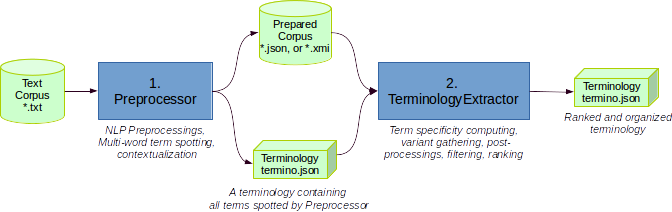
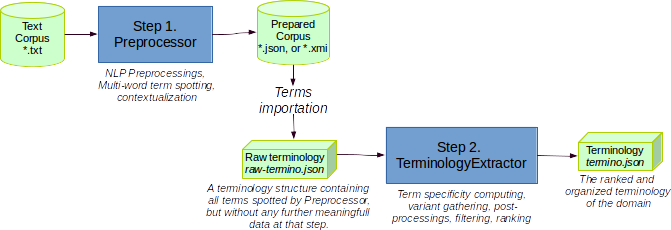
Preprocessor documented

diff --git a/_plugins/termsuite_module.rb b/_plugins/termsuite_module.rb
@@ -1,0 +1,65 @@
+module Jekyll
+  RESOURCE_PREFIX = "https://github.com/termsuite/termsuite-core/blob/master/src/main/resources/fr/univnantes/termsuite/resources/"
+  class Resource
+    attr_reader :name, :url
+    def initialize(name, url)
+      @name, @url = name, url
+    end
+  end
+
+  class TermsuiteModule < Liquid::Tag
+
+    def initialize(tag_name, markup, tokens)
+      super
+      @attributes = {}
+      @markup = markup
+      @markup.scan(::Liquid::TagAttributes) do |key, value|
+        # Strip quotes from around attribute values
+        @attributes[key] = value.gsub(/^['"]|['"]$/, '')
+      end
+      @title = @attributes["title"] || raise("Missing attribute title to tag #{tag_name}")
+      @source = @attributes["source"] || raise("Missing attribute source to tag #{tag_name}")
+    end
+
+    def resources
+      @resources ||= begin
+        @attributes.to_a.select do |res_name, res_path|
+          res_name != "title" && res_name != "source"
+        end.map do |res_name, res_path|
+          Resource.new(res_name, RESOURCE_PREFIX + res_path)
+        end
+      end
+    end
+
+    def render(context)
+str = %{
+  <table class="table table-bordered">
+    <tbody>
+        <tr>
+          <td>Source code:</td>
+          <td><a title="#{@title} source code" href="#{@source}">#{@title}</a></td>
+        </tr>
+        <tr>
+          <td>Resource#{resources.length > 1 ? "s" : ""}:</td>
+          <td>}
+
+if(resources.empty?)
+  str += "(No TermSuite resource required for this module)"
+else
+  str += resources.map do |resource|
+   %{<a title="#{resource.name}" href="#{resource.url}">#{resource.name}</a>}
+ end.join(", ")
+end
+
+str+=%{</td>
+        </tr>
+    </tbody>
+  </table>
+}
+
+str
+    end
+  end
+end
+
+Liquid::Template.register_tag('termsuite_module', Jekyll::TermsuiteModule)

diff --git a/_plugins/termsuite_example.rb b/_plugins/termsuite_example.rb
@@ -65,7 +65,3 @@ See [how to interprete terminology TSV output file](/documentation/terminology-t
 end
 
 Liquid::Template.register_tag('termsuite_example', Jekyll::TermsuiteExample)
-
-
-# %{
-# }

diff --git a/_i18n/en/documentation/termsuite-pipelines.md b/_i18n/en/documentation/termsuite-pipelines.md
@@ -1,10 +1,106 @@
 
+TermSuite is a tool for working on domain-specific term. It implements two major features: **Terminology extraction** and **Bilingual alignment**. This page gives an overview of their architectures.
 
+* TOC
+{:toc}
+
+### Terminology Extraction (Steps 1 and 2)
+{:id=terminology-extraction}
+
+Terminology extraction is the process of producing an exhaustive list of domain-specific
+terms from a corpus of textual documents dealing with this domain.
 
 
 ![TermSuite general data flow](/img/flow-preprocessor-extractor.png)
 
-[Terminology Extraction](/documentation/terminology-extraction/)
+As show by the figure above, terminology extraction is a two-step process:
+
+ 1. **Step 1. Preprocessor**: every textual document of the corpus is analyzed
+by an UIMA-based NLP (*Natural Language Processing*) pipeline that spots all candidate terms
+in the document.
+ 1. **Step 2. TerminologyExtractor**: spotted terms are analyzed, gathered, filtered,
+and ranked by specificity to the domain.
+
+The preprocessed documents produced by *Preprocessor* comes out as a corpus of [UIMA](http://uima.apache.org/) annotations, called a *prepared corpus*,  in [XMI](http://www.omg.org/spec/XMI/) or JSON. The *TerminologyExtractor* is a pipeline that operates on a terminology structure. The process of transforming a prepared corpus into a terminology is named [*term importation*](#term-importation) and consists in gathering all occurrences of the same term key into a single terminology structure.
+
+#### Step 1: Preprocessor
+{:id=preprocessor}
+
+Preprocessing is the process of transforming a text, i.e. a *String* data, into a list of UIMA annotations, including term occurrences. It is a mandatory step before terminology extraction, but you can reuse TermSuite natural language preprocessings in any other application context (not only on terminology extraction).
+
+![TermSuite preprocessor pipeline](/img/pipeline-preprocessor.png)
+
+The framework used by TermSuite for its NLP pipeline is [UIMA](https://uima.apache.org/). See [TermSuite UIMA Type System](/documentation/data-model/#type-system) to get an idea on how the tokens (UIMA annotations) are modelled within TermSuite.
+
+
+##### Word tokenizer
+
+Transforms a text, i.e. a *String*, into a list of *tokens*, i.e. words and punctuations. TermSuite ships its own UIMA tokenizer.
+
+{% termsuite_module title: "UIMA tokenizer", source: "https://github.com/JuleStar/uima-tokenizer", SegmentBank: "en/english-segment-bank.xml" %}
+
+##### POS Tagger and Lemmatizer
+ of a term,
+The *POS Tagger* attributes a syntactic label to each token. The *Lemmatizer* sets the *lemma* of each word.
+
+POS tagging and lemmatizing are often performed together in the same module. There are two POS taggers/lemmatizers supported by TermSuite:
+
+ 1. [TreeTagger](http://www.cis.uni-muenchen.de/~schmid/tools/TreeTagger/), (default)
+ 2. [Mate](http://www.ims.uni-stuttgart.de/forschung/ressourcen/werkzeuge/matetools.html).
+
+These bricks need to be installed apart from TermSuite. See [how to install POS tagger/lemmatizer](/documentation/postagger/) in TermSuite.
+
+For TreeTagger:
+
+{% termsuite_module title: "TreeTagger UIMA wrapper", source: "https://github.com/JuleStar/uima-tree-tagger-wrapper", TreeTaggerConfig: "en/tagging/tree-tagger/english-treetagger.xml" %}
+
+For Mate:
+
+{% termsuite_module title: "Mate UIMA wrapper", source: "https://github.com/termsuite/termsuite-core/blob/master/src/main/java/fr/univnantes/termsuite/uima/engines/preproc/MateLemmatizerTagger.java" %}
+
+##### Tag normalization
+
+*Normalizing* is the process of translating each POS tag into MULTEXT universel tag set.
+
+When TreeTagger is used:
+
+{% termsuite_module title: "TreeTagger UIMA normalizer", source: "https://github.com/JuleStar/uima-mapper", CategoryMapping: "en/tagging/tree-tagger/english-tt-category-mapping.xml", SubCategoryMapping: "en/tagging/tree-tagger/english-tt-subcategory-mapping.xml", TenseMapping: "en/tagging/tree-tagger/english-tt-tense-mapping.xml", MoodMapping: "en/tagging/tree-tagger/english-tt-mood-mapping.xml", GenderMapping: "en/tagging/tree-tagger/english-tt-gender-mapping.xml", NumberMapping: "en/tagging/tree-tagger/english-tt-number-mapping.xml", CaseMapping: "en/tagging/tree-tagger/english-tt-case-mapping.xml" %}
+
+When Mate is used:
+
+{% termsuite_module title: "Mate UIMA normalizer", source: "https://github.com/JuleStar/uima-mapper", CategoryMapping: "en/tagging/tree-tagger/english-mate-category-mapping.xml", SubCategoryMapping: "en/tagging/tree-tagger/english-mate-subcategory-mapping.xml", TenseMapping: "en/tagging/tree-tagger/english-mate-tense-mapping.xml", MoodMapping: "en/tagging/tree-tagger/english-mate-mood-mapping.xml", GenderMapping: "en/tagging/tree-tagger/english-mate-gender-mapping.xml", NumberMapping: "en/tagging/tree-tagger/english-mate-number-mapping.xml", CaseMapping: "en/tagging/tree-tagger/english-mate-case-mapping.xml" %}
+
+
+##### Stemmer
+
+*Stemming* is the process of extracting the stem form of each word. TermSuite ships its own UIMA stemmer, implementing [Snowball](http://snowball.tartarus.org/).
+
+{% termsuite_module title: "UIMA Snowball Stemmer", source: "https://github.com/JuleStar/uima-stemmer" %}
+
+
+##### Term Spotter
+{:id=term-spotter}
+
+*Term spotting* is the process of parsing a sequence of words and detecting wich subsequences are term occurrences. TermSuite performs pattern-based multi-word term spotting with the help of [UIMA Tokens Regex](https://github.com/JuleStar/uima-tokens-regex) engine and a list of regex rules on UIMA annotations. *UIMA Tokens Regex* is a generic regex rule system for sequential UIMA annotations. It has been designed and implemented especially with the goels of TermSuite in mind.  
+
+{% termsuite_module title: "Term Spotter", source: "https://github.com/JuleStar/uima-tokens-regex", MultiWordRegexRules: "en/english-multi-word-rule-system.regex" %}
+
+Multi-word term detection in TermSuite is rule-based, based on syntactic term patterns. Each supported language has its own exhaustive list of allowed term patterns. Read [UIMA Tokens Regex documentation](https://github.com/JuleStar/uima-tokens-regex) and [TermSuite demo paper at ACL](https://aclweb.org/anthology/P/P16/P16-4003.pdf) for more information about this process.
+
+#### Importation of spotted terms into terminology
+{:id=term-importation}
+
+
+
+
+#### Step 2: Terminology extraction
+{:id=terminology-extraction-step-2}
+
+![TermSuite terminology extractor pipeline](/img/pipeline-extractor.png)
+
+
+### Bilingual Alignment (Step 3)
+{:id=alignment}
 
 ![TermSuite aligner data flow](/img/flow-aligner.png)
 

diff --git a/_i18n/en/documentation/data-model.md b/_i18n/en/documentation/data-model.md
@@ -1,18 +1,33 @@
 * TOC
 {:toc}
 
-# TermSuite UIMA Type System
+### TermSuite UIMA Type System
+{:id="type-system"}
 
-There are three types in TermSuite's type system :
+The *Type System* is the schema of UIMA annotations contained in the CAS (*Common Abstract Structure*) passed to all analysis engines of the UIMA pipeline. This section presents the *Type System* used by [TermSuite Preprocessor pipeline](/documentation/termsuite-pipelines/#preprocessor), i.e. our data model at Step 1 of terminology extraction.
 
-###### org.apache.uima.examples.SourceDocumentInformation
+There are three annotation types in TermSuite. See [TermSuite Type System XML file](https://github.com/termsuite/termsuite-core/blob/master/src/main/resources/TermSuite_TS.xml) for an up-to-date view of the type system.
+
+ * [`SourceDocumentInformation`](#SourceDocumentInformation): exactly one per document, i.e. per CAS, containing all metadata needed about the current textual document being processed,
+ * [`WordAnnotation`](#WordAnnotation): a word, or a punctuation element,
+ * [`TermOccAnnotation`](#TermOccAnnotation): a term occurrence detected by [Term Spotter](/documentation/termsuite-pipelines/#term-spotter).
+
+
+
+#### org.apache.uima.examples.SourceDocumentInformation
+{:id="SourceDocumentInformation"}
 
 * `uri:String`
 * `offsetInSource:Integer`
 * `lastSegment:Boolean`
 * `documentSize:Integer`
+* `corpusSize:Integer`
+* `cumulatedDocumentSize:Integer`
+* `documentIndex:Integer`
+* `nbDocuments:Integer`
 
-###### eu.project.ttc.types.WordAnnotation
+#### eu.project.ttc.types.WordAnnotation
+{:id="WordAnnotation"}
 
 * `stem:String`
 * `lemma:String`
@@ -31,31 +46,17 @@ There are three types in TermSuite's type system :
 * `labels:String`
 
 
-###### eu.project.ttc.types.TermOccAnnotation
+#### eu.project.ttc.types.TermOccAnnotation
+{:id="TermOccAnnotation"}
 
-* `category:String`
-* `frequency:Double`
-* `langset:String`
-* `lemma:String`
+* `termKey:String`
+* `word:WordAnnotation[]`
 * `pattern:StringArray` (an array of UIMA Tokens Regex labels)
-* `ruleId:String` (the name of the UIMA Tokens Regex rule that spotted this term)
-* `specifity:Double` (The Weirdness Ratio of this term @Deprecated)
+* `spottingRuleName:String` (the name of the UIMA Tokens Regex rule that spotted this term)
 
-# TermSuite Java Data Model
+### Terminology Data Model
+{:id="TerminologyDataModel"}
 
+This section presents the data model of a Terminology used by [TermSuite terminology extractor pipeline](/documentation/termsuite-pipelines/#terminology-extraction-step-2), i.e. our data model at Step 2 of [terminology extraction](/documentation/termsuite-pipelines/#terminology-extraction).
 
-TODO: draw a schema of this data model.
-
-###### TermIndex
-
-###### Term
-
-###### TermOccurrence
-
-###### Word
-
-###### TermWord
-
-###### TermProperty
-
-###### Document
+(to come)

diff --git a/_documentation/95-json.md b/_documentation/95-json.md
@@ -1,0 +1,16 @@
+---
+layout: documentation
+title: title.json
+menu_title: menu-title.json
+menu: theory
+order: 15
+excerpt: excerpt.json
+permalink: /documentation/json/
+---
+{% if "fr" == site.lang %}
+  <div class="alert alert-warning" role="alert">
+  <strong>Désolé ! </strong>Cette page n'existe pas en langue française. Veuillez vous référer à la <a href="{{ page.url }}"> version anglaise</a>.
+</div>
+{% else %}
+  {% translate_file documentation/json.md %}
+ {% endif %}

diff --git a/_i18n/en/documentation/json.md b/_i18n/en/documentation/json.md
@@ -1,0 +1,1 @@
+(to come)
